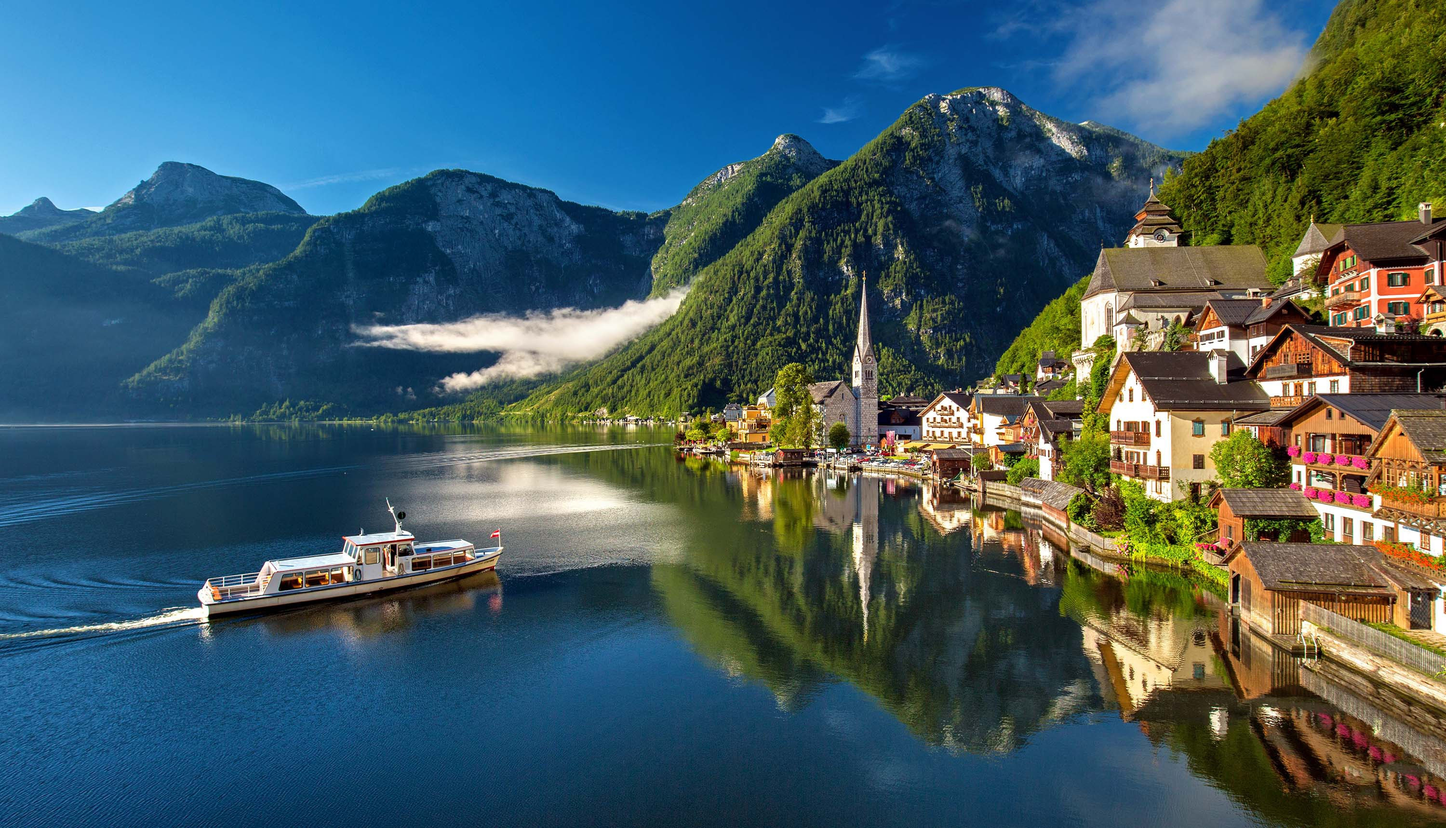
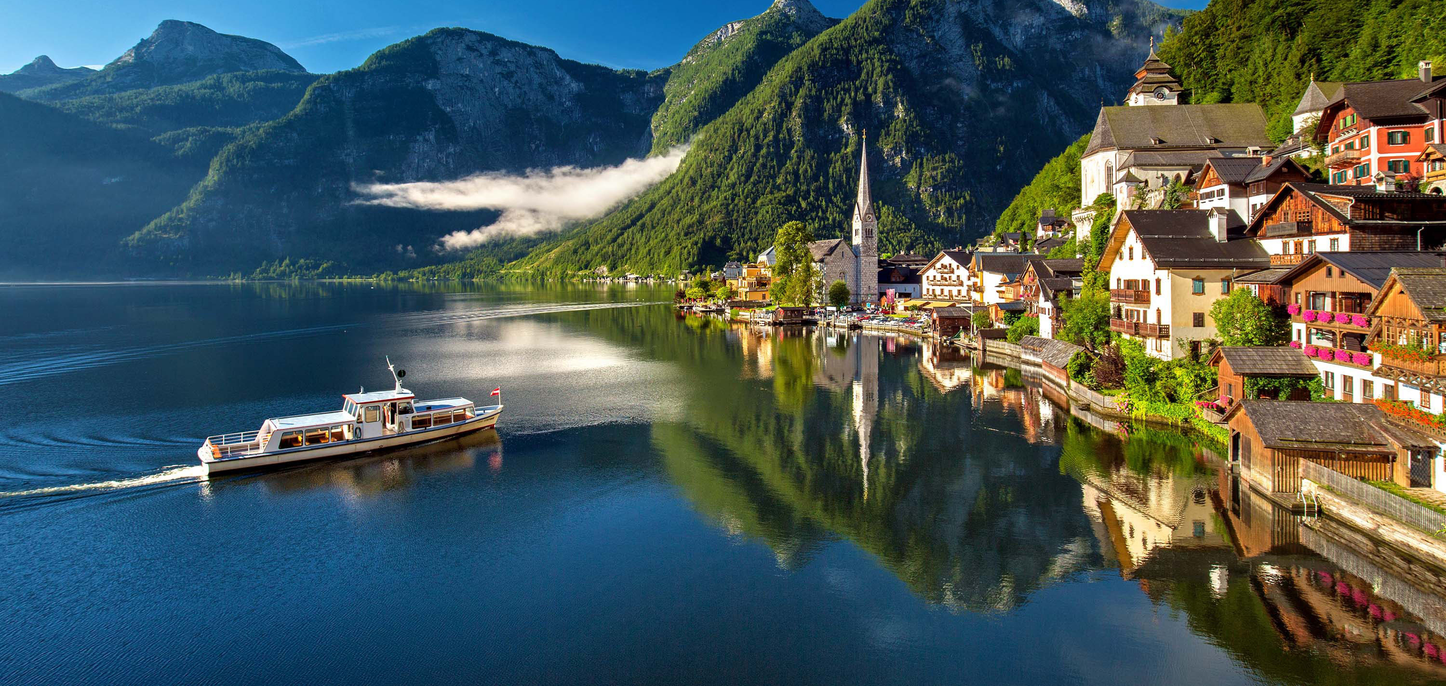
fix navbar 1

diff --git a/Home.html b/Home.html
@@ -198,15 +198,15 @@
         <!-- Wrapper for slides -->
         <div class="carousel-inner">
             <div class="item active">
-                <img src="images/Home/boats.jpg" style="height: 700px; width: 100%" alt="Los Angeles">
+                <img src="images/Home/boats.jpg" alt="Los Angeles">
             </div>
 
             <div class="item">
-                <img src="images/Home/hallstatt-3609863.jpg" style="height: 700px; width: 100%" alt="Chicago">
+                <img src="images/Home/hallstatt-3609863.jpg" alt="Chicago">
             </div>
 
             <div class="item">
-                <img src="images/Home/sailing-boat-1593613.jpg" style="height:700px; width: 100%" alt="New York">
+                <img src="images/Home/sailing-boat-1593613.jpg"  alt="New York">
             </div>
         </div>
 
@@ -223,44 +223,44 @@
     <!------------ END CAROUSEL  --------------->
     <div id="thumbnail">
         <a href="features.html">
-            <div class="col-md-6 col-sm-12 col-xs-12 thumbnail text-center">
+            <div class="col-md-6 col-sm-12 col-xs-12 thumbnails text-center">
                 <div>
                     <img src="images/Home/features.jpg" alt="">
                 </div>
             </div>
         </a>
         <a href="features.html">
-            <div class="col-md-6 col-sm-12 col-xs-12 thumbnail text-center">
+            <div class="col-md-6 col-sm-12 col-xs-12 thumbnails text-center">
                 <div>
-                    <img src="images/Home/boating1.jpg" style="height: 362px" alt="">
+                    <img src="images/Home/boating1.jpg" alt="">
                 </div>
             </div>
         </a>
         <a href="News">
-            <div class="col-md-6 col-sm-12 col-xs-12 thumbnail text-center">
+            <div class="col-md-6 col-sm-12 col-xs-12 thumbnails text-center">
                 <div>
                     <img src="images/Home/news.jpg" alt="">
                 </div>
             </div>
         </a>
         <a href="Events.html">
-            <div class="col-md-6 col-sm-12 col-xs-12 thumbnail text-center">
+            <div class="col-md-6 col-sm-12 col-xs-12 thumbnails text-center">
                 <div>
-                    <img src="images/Home/phao-hoa-ben-song-han-da-nang-2017--litchee-travel.jpg" style="height: 363px" alt="">
+                    <img src="images/Home/phao-hoa-ben-song-han-da-nang-2017--litchee-travel.jpg"  alt="">
                 </div>
             </div>
         </a>
         <a href="Gallery.html">
-            <div class="col-md-6 col-sm-12 col-xs-12 thumbnail text-center">
+            <div class="col-md-6 col-sm-12 col-xs-12 thumbnails text-center">
                 <div>
                     <img src="images/Home/jet-ski-1125329.jpg" alt="">
                 </div>
             </div>
         </a>
         <a href="#">
-            <div class="col-md-6 col-sm-12 col-xs-12 thumbnail text-center">
+            <div class="col-md-6 col-sm-12 col-xs-12 thumbnails text-center">
                 <div>
-                    <img src="images/Home/contact.jpg" style="height: 302px" alt="">
+                    <img src="images/Home/contact.jpg" alt="">
                 </div>
             </div>
         </a>
@@ -280,9 +280,9 @@
         <div class="col-sm-4 col-md-3">
             <h2>CONTACT US</h2>
             <hr>
-            <div class="address"><i class="fas fa-map-marker-alt"></i><span style="color:rgba(0,0,0,0)">oi</span>38 Yên Bái, Đà Nẵng</div>
-            <div class="address"><i class="fas fa-phone-alt"></i><span style="color:rgba(0,0,0,0">ii</span>Phone: 0510.123.4567</div>
-            <div class="address"><i class="fas fa-envelope"></i><span style="color:rgba(0,0,0,0)">ii</span>MarineFleet@gmail.com</div>
+            <div class="address"><i class="fas fa-map-marker-alt"></i><span style="color:rgba(0,0,0,0)">o</span>38 Yên Bái, Đà Nẵng</div>
+            <div class="address"><i class="fas fa-phone-alt"></i><span style="color:rgba(0,0,0,0">i</span>Phone: 0510.123.4567</div>
+            <div class="address"><i class="fas fa-envelope"></i><span style="color:rgba(0,0,0,0)">i</span>MarinaFleet@gmail.com</div>
             <a href="#"><i class="fab fa-facebook"></i></a>
             <a href="#"><i class="fab fa-twitter"></i></a>
             <a href="#"><i class="fab fa-youtube"></i></a>

diff --git a/css/Home.css b/css/Home.css
@@ -1,7 +1,7 @@
 
 
 /**************background***************/
-* {
+{
     box-sizing: border-box;
 }
 
@@ -64,19 +64,20 @@ body {
 /*******************THUMBNAIL*****************/
 #thumbnail{
     margin-top: 50px;
-    box-shadow: none;
+    box-shadow: black;
 }
-.thumbnail{
+.thumbnails{
     background-color: rgba(83,164,255,0);
     border: none;
     transition: all 1.3s;
     filter: grayscale(100%);
+    margin: 10px 0;
 }
-.thumbnail > div > img {
+.thumbnails > div > img {
     width: 95%;
     padding: 0 0;
 }
-.thumbnail:hover{
+.thumbnails:hover{
     transform: scale(1.1);
     filter: grayscale(0%);
 }
@@ -89,7 +90,13 @@ body {
 
 
 @media only screen and (max-width: 768px) {
-
+    #content{
+        padding: 10px;
+    }
+    #sologan{
+        padding: 180px 10px;
+        font-size: 2em;
+    }
 }
 
 

diff --git a/css/nav-footer.css b/css/nav-footer.css
@@ -231,12 +231,12 @@ element.style {
 }
 .address{
     color: white;
-    font-size: 1.5em;
+    font-size: 1.4em;
     padding: 10px 0;
 }
 #footer > .container-fluid > div > a > i{
     color: white;
-    font-size: 3em;
+    font-size: 2.8em;
     padding: 20px 5px;
     transition: all 1.3s;
 }
@@ -252,3 +252,7 @@ element.style {
 }
 
 /*END FOOTER*/
+
+@media only screen and (max-width: 1200px){
+
+}
